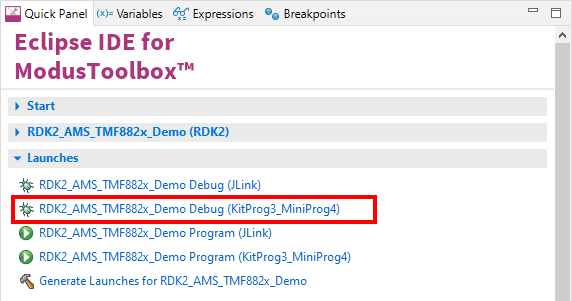
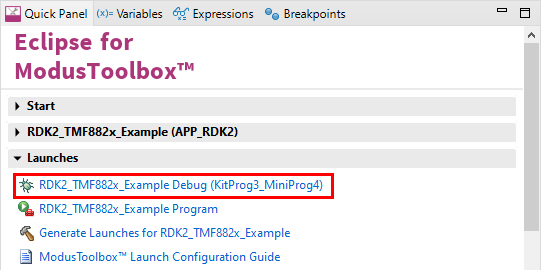
mtb 2025.04 updates.

diff --git a/README.md b/README.md
@@ -8,7 +8,7 @@ This code example demonstrates the ams ToF sensor's TMF8820 and TMF8828 capabili
 
 ## Requirements
 
-- [ModusToolbox® software](https://www.infineon.com/cms/en/design-support/tools/sdk/modustoolbox-software/) **v3.x** [built with **v3.0**]
+- [ModusToolbox® software](https://www.infineon.com/cms/en/design-support/tools/sdk/modustoolbox-software/) **v2025.4.0** [built with **v3.0**]
 
 ## Supported toolchains (make variable 'TOOLCHAIN')
 
@@ -81,7 +81,7 @@ The application always waits for the "**USER-BTN1**" to be pressed after the sta
 
 ### Debugging
 
-If you successfully have imported the example, the debugging configurations are already prepared to be used with a the KitProg3, MiniProg4, or J-link. Open the ModusToolbox perspective and find the Quick Panel. Click on the desired debug launch configuration and wait for the programming to  complete and debugging process to start.
+If you have successfully imported the example, the debugging configurations are already prepared to be used with the KitProg3, MiniProg4. Open the ModusToolbox perspective and find the Quick Panel. Click on the desired debug launch configuration and wait for the programming to complete and the debugging process to start.
 
 <img src="images/debugging.png" style="zoom:100%;" />
 
